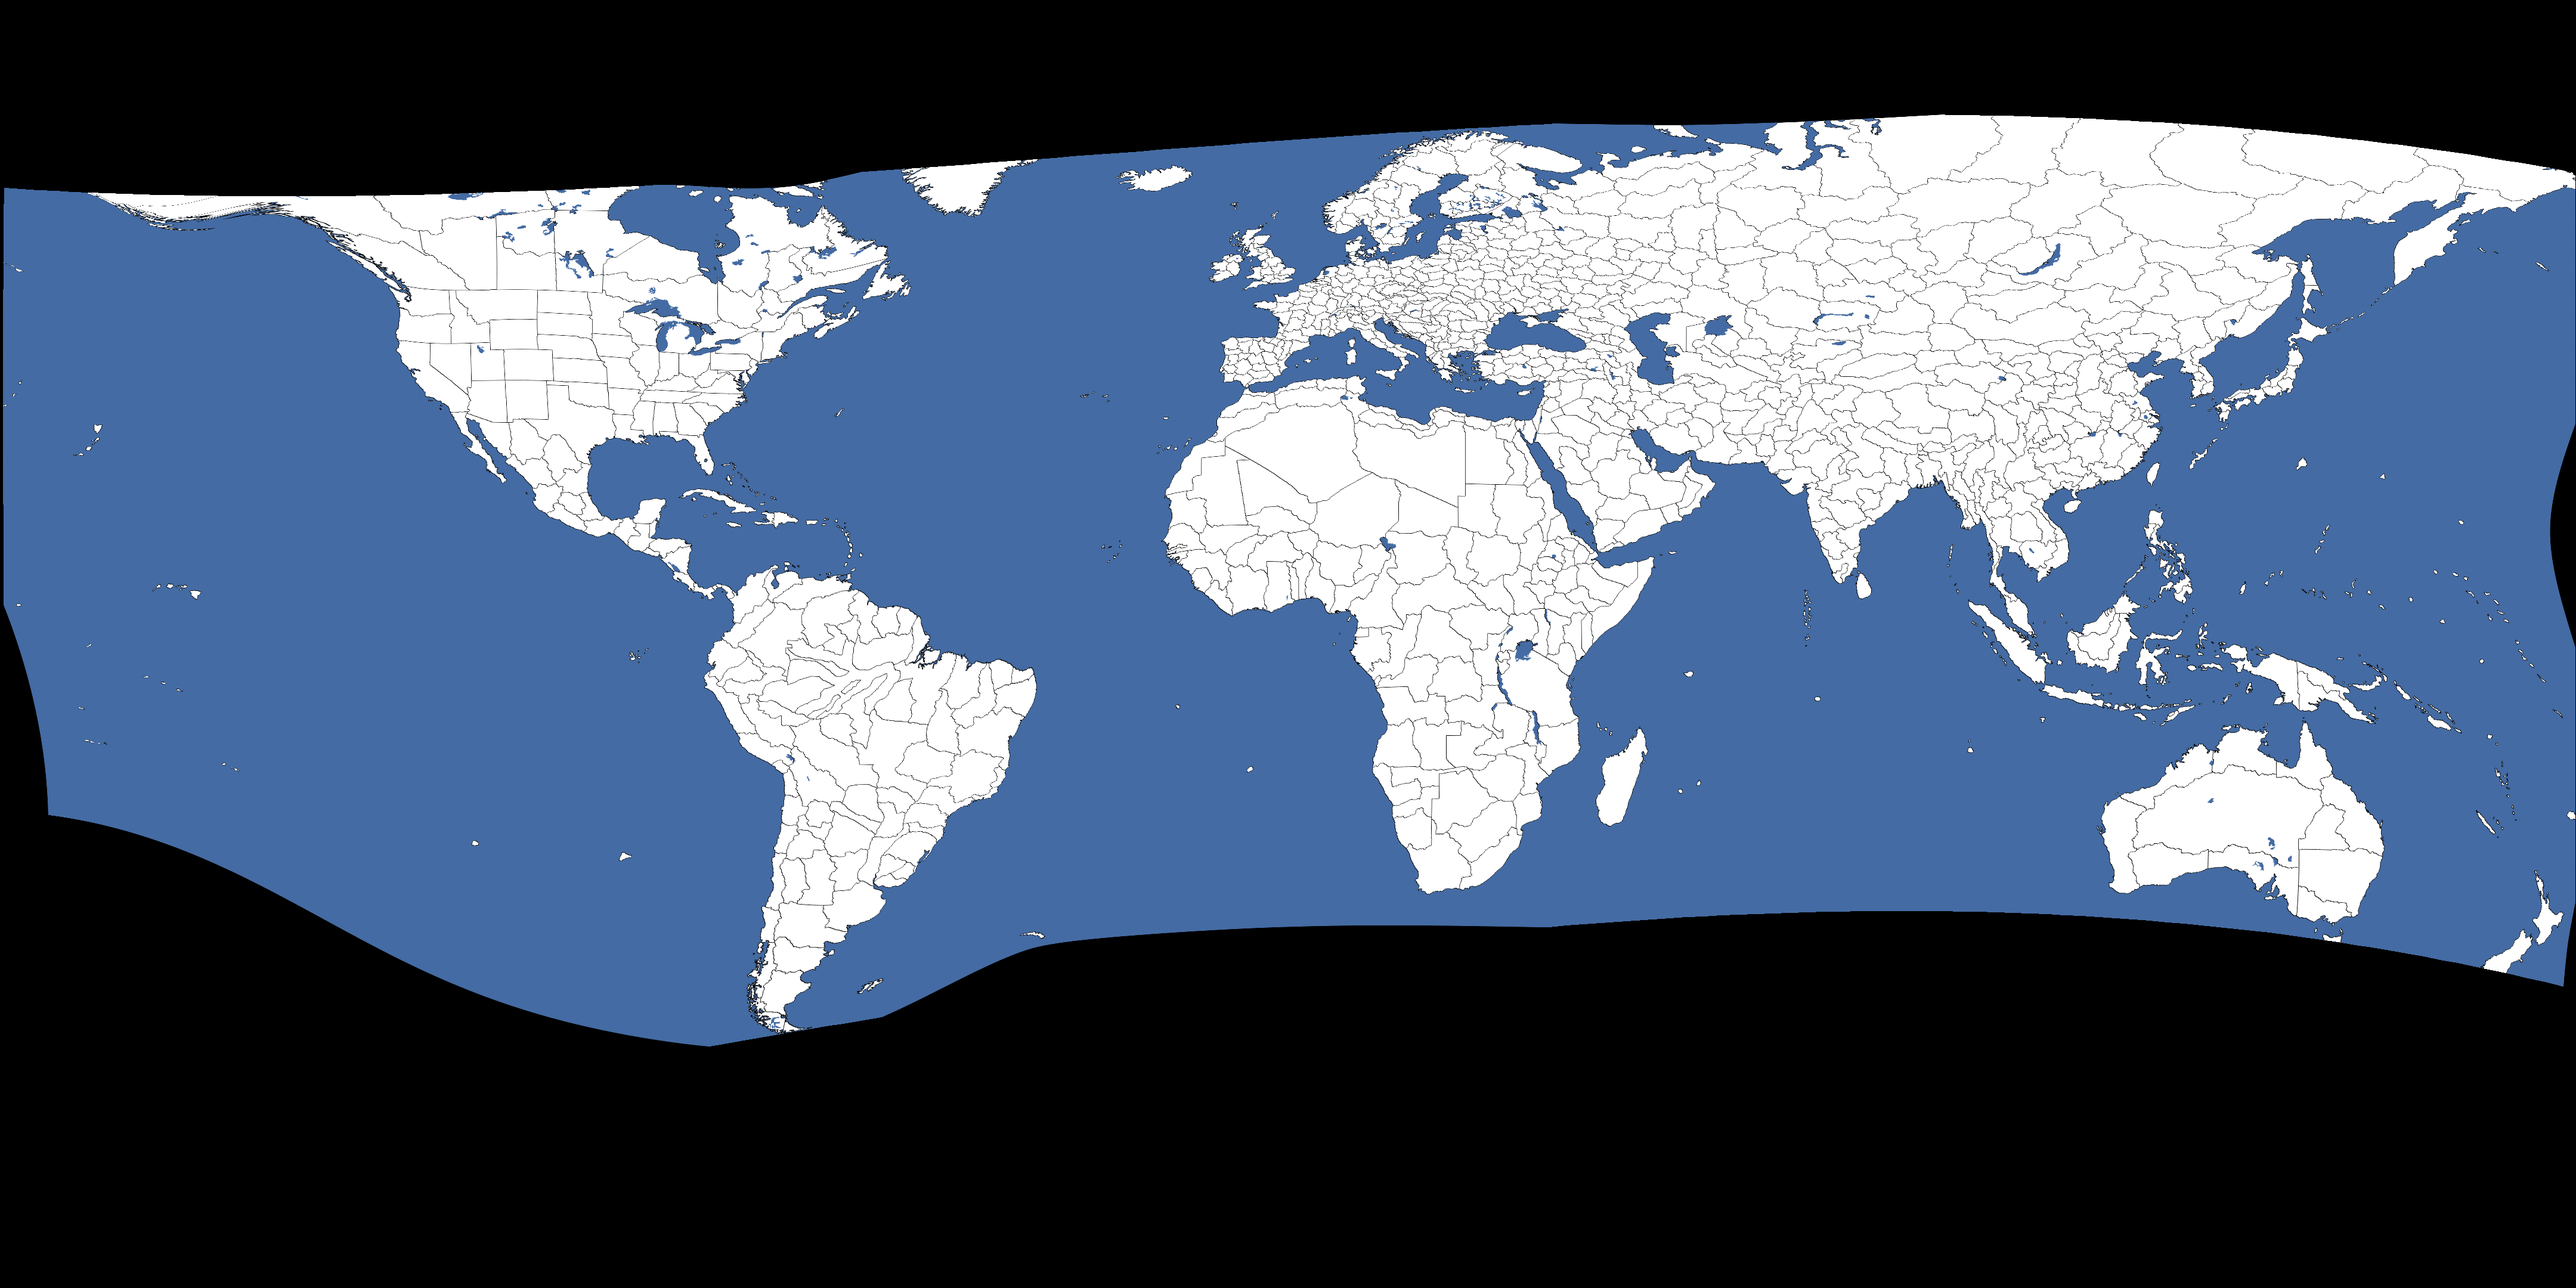
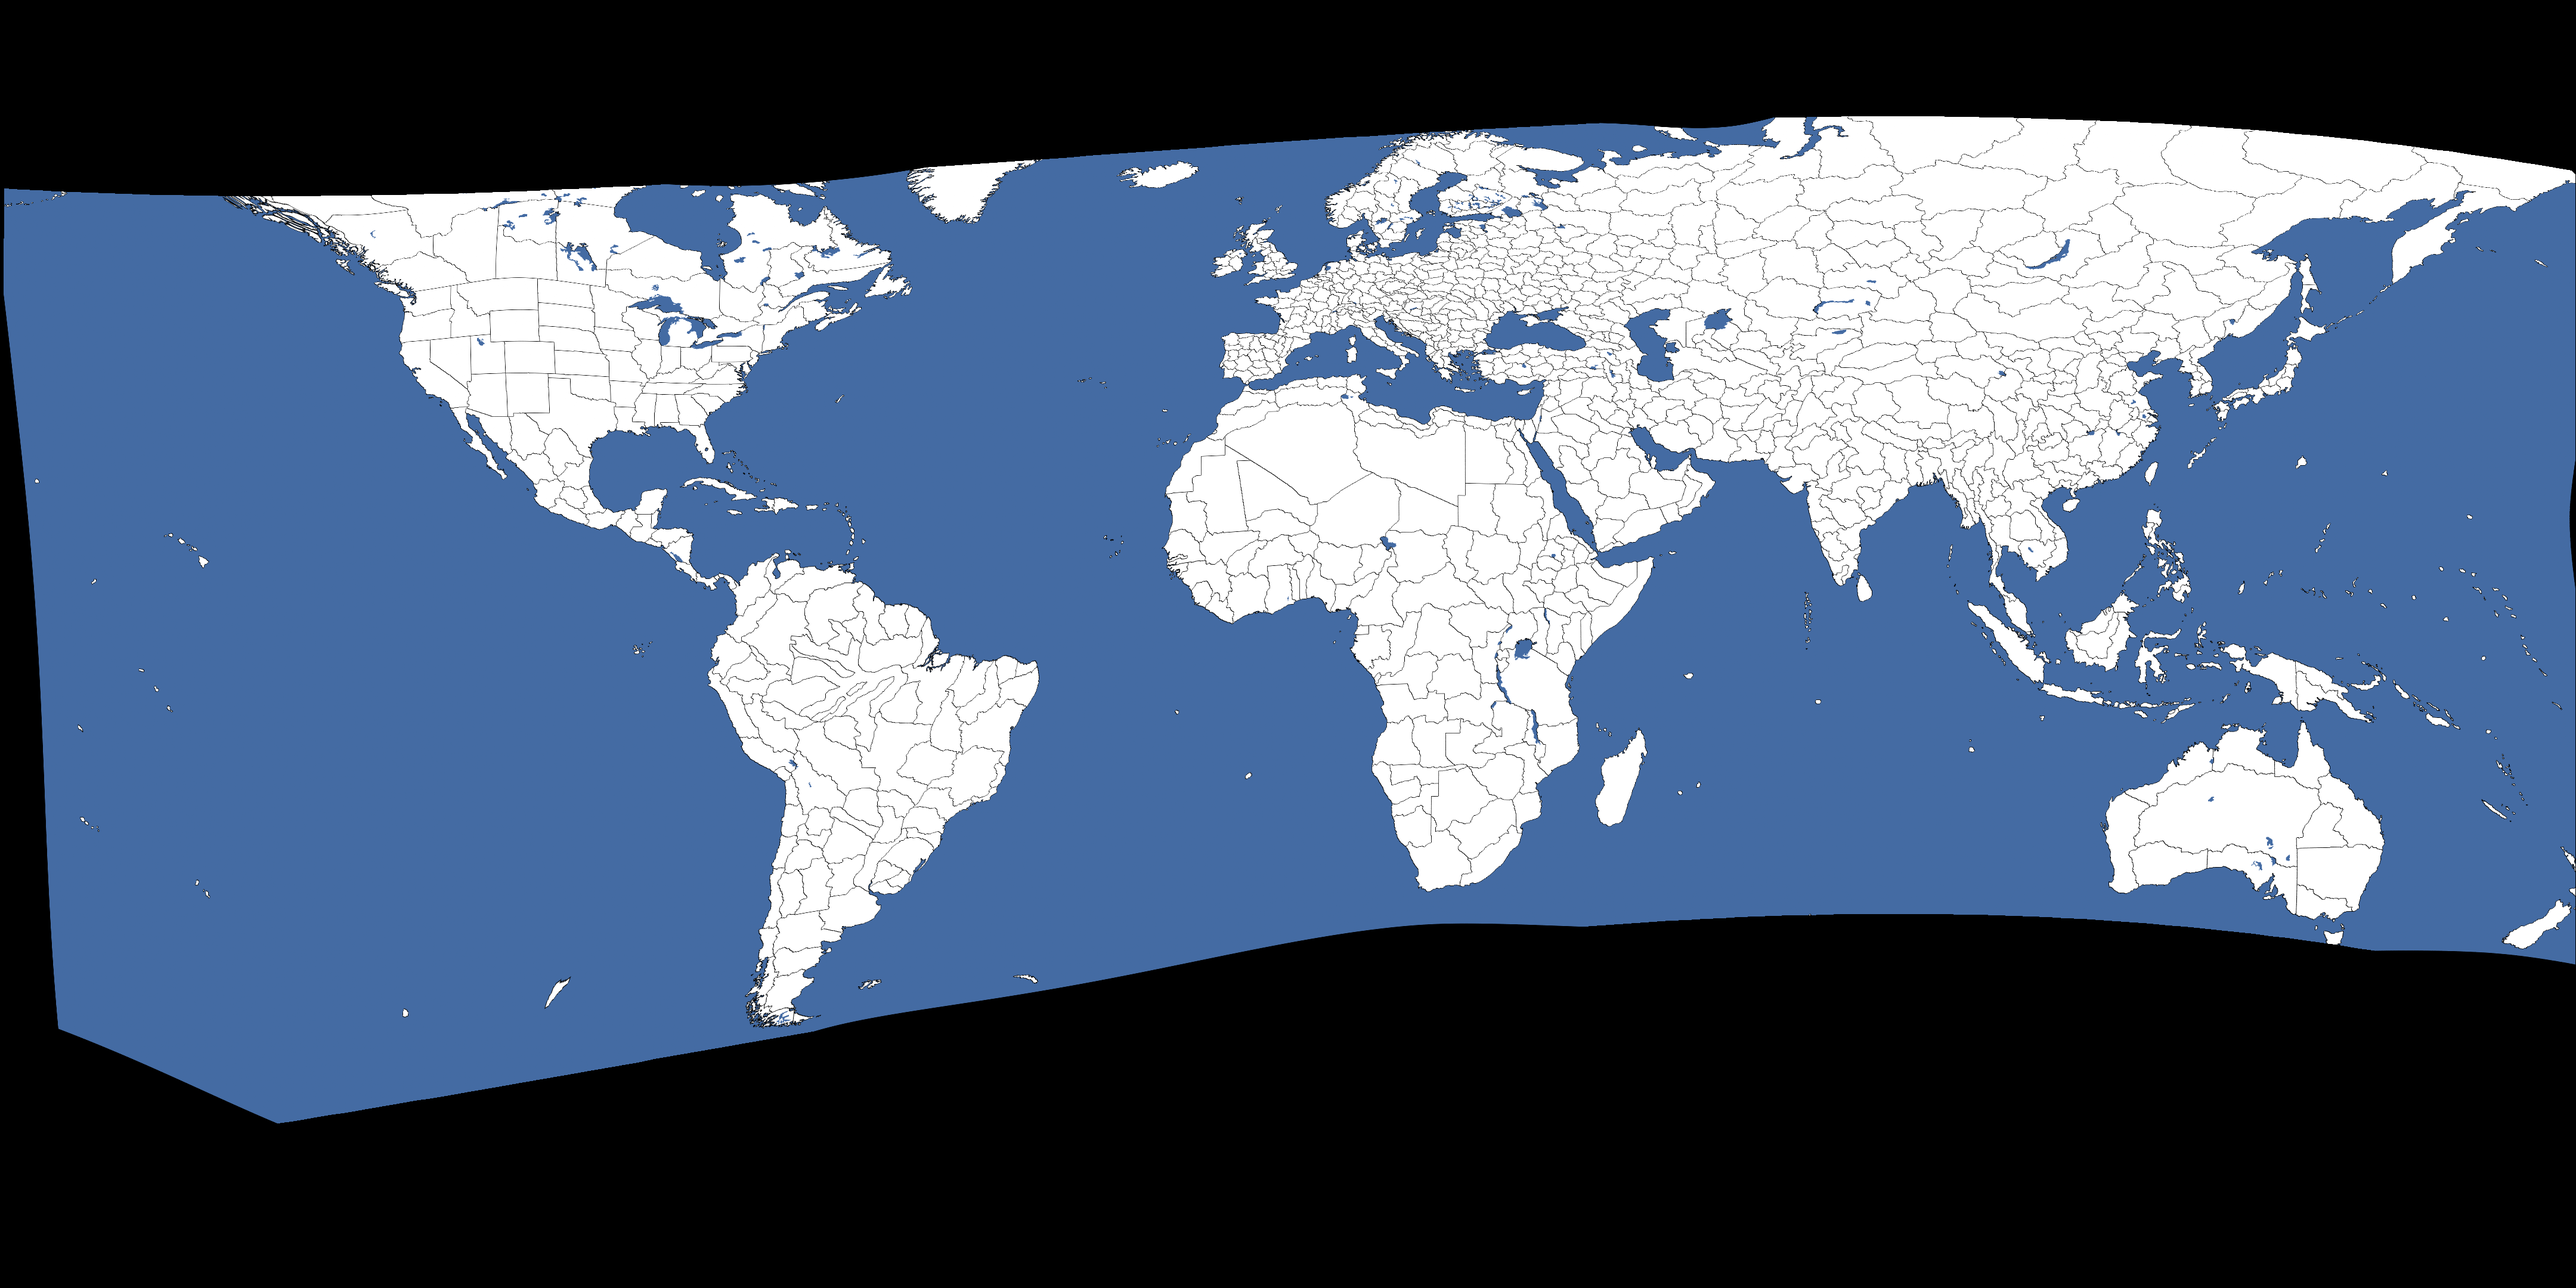
backup, this is borked

diff --git a/deprojector_1.2/pipeline/C_mesh_warp.py b/deprojector_1.2/pipeline/C_mesh_warp.py
@@ -156,6 +156,7 @@ def prune_control_points(
             norm_grid_y = (grid[..., 1] / (h_s - 1)) * 2.0 - 1.0
             norm_grid = torch.stack([norm_grid_x, norm_grid_y], dim=-1).unsqueeze(0)
             
+            # Smooth unconstrained evaluation (OOB safely padded as zero)
             warped = F.grid_sample(src_mask_t, norm_grid, mode="bilinear", padding_mode="zeros", align_corners=True)
             
             pm = poly_mask_t > 0.5
@@ -170,7 +171,6 @@ def prune_control_points(
     keep_mask = np.ones(len(P_ref_np), dtype=bool)
     removed_count = 0
     
-    # Identify corners to protect them from pruning (required for bounds stability)
     is_corner = np.zeros(len(P_ref_np), dtype=bool)
     for i, pt in enumerate(P_ref_np):
         x, y = pt[0], pt[1]
@@ -409,10 +409,21 @@ def sgd_point_warp_polygon_constrained(
     h_r, w_r = ref_img.shape[:2]
     h_s, w_s = src_img.shape[:2]
     
-    # ── Phase 1: Context & Bounding Box ───────────────────────────
+    # ── Phase 1: Context & Bounding Box (Padded to Prevent Clipping) ──
     polygon = extent_result.polygon
-    bbox = polygon_tight_bbox(polygon, ref_img.shape)
-    bx0, by0, bx1, by1 = bbox["x0"], bbox["y0"], bbox["x1"], bbox["y1"]
+    tight_box = polygon_tight_bbox(polygon, ref_img.shape)
+    
+    # Add 15% margin so the optimizer has room to warp without clipping off the edge
+    bw_tight = tight_box["x1"] - tight_box["x0"]
+    bh_tight = tight_box["y1"] - tight_box["y0"]
+    pad_x = int(bw_tight * 0.15)
+    pad_y = int(bh_tight * 0.15)
+    
+    bx0 = max(0, tight_box["x0"] - pad_x)
+    by0 = max(0, tight_box["y0"] - pad_y)
+    bx1 = min(w_r - 1, tight_box["x1"] + pad_x)
+    by1 = min(h_r - 1, tight_box["y1"] + pad_y)
+    bbox = {"x0": bx0, "y0": by0, "x1": bx1, "y1": by1}
     bw, bh = bx1 - bx0, by1 - by0
     
     if show_plots:
@@ -436,21 +447,24 @@ def sgd_point_warp_polygon_constrained(
     src_rgb_np = cv2.cvtColor(src_img, cv2.COLOR_BGR2RGB)
     src_img_t = (torch.from_numpy(src_rgb_np).float().permute(2, 0, 1).unsqueeze(0).to(device) / 255.0)
 
-    # Compute Spatial Weight Map if requested (edge and/or center penalties)
+    # Compute Spatial Weight Map
     spatial_weight_map = None
+    y_grid, x_grid = torch.meshgrid(torch.arange(work_h_bbox, device=device), torch.arange(work_w_bbox, device=device), indexing='ij')
     if edge_penalty > 0.0 or center_penalty > 0.0:
-        y_grid, x_grid = torch.meshgrid(torch.arange(work_h_bbox, device=device), torch.arange(work_w_bbox, device=device), indexing='ij')
-        # Normalize to [-1, 1] for both X and Y
         nx = (x_grid / (work_w_bbox - 1)) * 2.0 - 1.0
         ny = (y_grid / (work_h_bbox - 1)) * 2.0 - 1.0
-        # Chebyshev distance from the center (0 in center, 1 at edge)
         dist_from_center = torch.max(torch.abs(nx), torch.abs(ny))
-        
-        # Linearly scale penalty:
-        # edge_penalty is applied primarily at the edges (dist = 1)
-        # center_penalty is applied primarily at the center (dist = 0)
         e_weight = 1.0 + (edge_penalty * dist_from_center) + (center_penalty * (1.0 - dist_from_center))
         spatial_weight_map = e_weight.unsqueeze(0).unsqueeze(0).float()
+        
+    # Boundary Repulsion Map (Force Field against bbox edges)
+    # Penalizes any source land touching the outer 10% of the bounding box to prevent it from escaping
+    margin_pct = 0.10
+    pen_y_t = torch.clamp(1.0 - (y_grid.float() / (work_h_bbox * margin_pct)), min=0.0) if by0 > 0 else torch.zeros_like(y_grid.float())
+    pen_y_b = torch.clamp(1.0 - ((work_h_bbox - 1 - y_grid.float()) / (work_h_bbox * margin_pct)), min=0.0) if by1 < h_r - 1 else torch.zeros_like(y_grid.float())
+    pen_x_l = torch.clamp(1.0 - (x_grid.float() / (work_w_bbox * margin_pct)), min=0.0) if bx0 > 0 else torch.zeros_like(x_grid.float())
+    pen_x_r = torch.clamp(1.0 - ((work_w_bbox - 1 - x_grid.float()) / (work_w_bbox * margin_pct)), min=0.0) if bx1 < w_r - 1 else torch.zeros_like(x_grid.float())
+    border_penalty_map = torch.maximum(torch.maximum(pen_y_t, pen_y_b), torch.maximum(pen_x_l, pen_x_r)).unsqueeze(0).unsqueeze(0)
     
     # ── Phase 3: Control Point Initialization ─────────────────────
     print("\n▸ Phase 3: Initializing Control Points")
@@ -495,6 +509,7 @@ def sgd_point_warp_polygon_constrained(
             norm_grid_y = (grid_src[..., 1] / (h_s - 1)) * 2.0 - 1.0
             norm_grid = torch.stack([norm_grid_x, norm_grid_y], dim=-1).unsqueeze(0)
             
+            # Note: Deliberately NO coordinate clamping here. Smooth interpolation overshoots gracefully via padding zeros.
             warped = F.grid_sample(src_mask_t, norm_grid, mode="bilinear", padding_mode="zeros", align_corners=True)
             
             l_dice = dice_loss_poly(warped, ref_bbox_sm, poly_mask_t)
@@ -505,15 +520,10 @@ def sgd_point_warp_polygon_constrained(
             else:
                 l_struct = bend_loss_tps(P_src_t, L_inv, len(P_ref_np))
                 
-            # Boundary containment penalty:
-            # Prevents the source image from physically exceeding the parent bounding box.
-            # We enforce that the mapped reference grid fully covers the source image [-1, 1].
-            min_x, max_x = norm_grid_x.min(), norm_grid_x.max()
-            min_y, max_y = norm_grid_y.min(), norm_grid_y.max()
-            l_bounds = F.relu(min_x + 1.0) + F.relu(1.0 - max_x) + \
-                       F.relu(min_y + 1.0) + F.relu(1.0 - max_y)
+            # Border Repulsion: prevents land from bleeding out of the padded working region (clipping)
+            l_border = (warped * border_penalty_map).sum() / (warped.sum().clamp(min=1e-8))
                 
-            loss = l_dice + l_mse + lam_fold * l_struct + 10.0 * l_bounds
+            loss = l_dice + l_mse + lam_fold * l_struct + 15.0 * l_border
             loss.backward()
             optim.step()
             
@@ -524,7 +534,7 @@ def sgd_point_warp_polygon_constrained(
                 best_P_src = P_src_t.detach().cpu().numpy()
                 
             if (step + 1) % 100 == 0 or step == steps_per_lvl - 1:
-                print(f"     step {step+1:4d} | loss={loss.item():.4f} | dice={l_dice.item():.4f} | struct={l_struct.item():.4f} | bounds={l_bounds.item():.4f}")
+                print(f"     step {step+1:4d} | loss={loss.item():.4f} | dice={l_dice.item():.4f} | struct={l_struct.item():.4f} | border={l_border.item():.4f}")
 
             # ── Prune Redundant Control Points Check ────────────────
             if prune_interval > 0 and (step + 1) % prune_interval == 0 and (step + 1) < steps_per_lvl:
@@ -574,7 +584,6 @@ def sgd_point_warp_polygon_constrained(
         # Add Dynamic Points if not the last level
         if lvl < levels - 1:
             with torch.no_grad():
-                # Apply the spatial penalty weight to the error map so dynamic points spawn at penalized regions more aggressively
                 base_err = torch.abs(w_mask - ref_bbox_sm) * poly_mask_t
                 if spatial_weight_map is not None:
                     base_err = base_err * spatial_weight_map

diff --git a/deprojector_1.2/app.py b/deprojector_1.2/app.py
@@ -71,13 +71,13 @@ def executePipeline():
             levels=4,             
             steps_per_lvl=1200,    
             lr_init=2.0,          
-            lam_fold=0.5,          
+            lam_fold=0.5, #0.5 tends to yield best results
             dyn_points_per_level=24,          
             dyn_error_threshold=0.005,         
             dyn_min_dist=12,
-            prune_interval=150,     # Attempt to strip down redundant points safely
-            center_penalty=8,
-            edge_penalty=12,       #16.0: strong edge penalty; 1.0 no edge penalty. 8.0 best compromise?
+            prune_interval=150, # Determines step intervals during levels in which prunes may occur
+            center_penalty=0, #8.0
+            edge_penalty=0, #12.0
         )
     )
 
